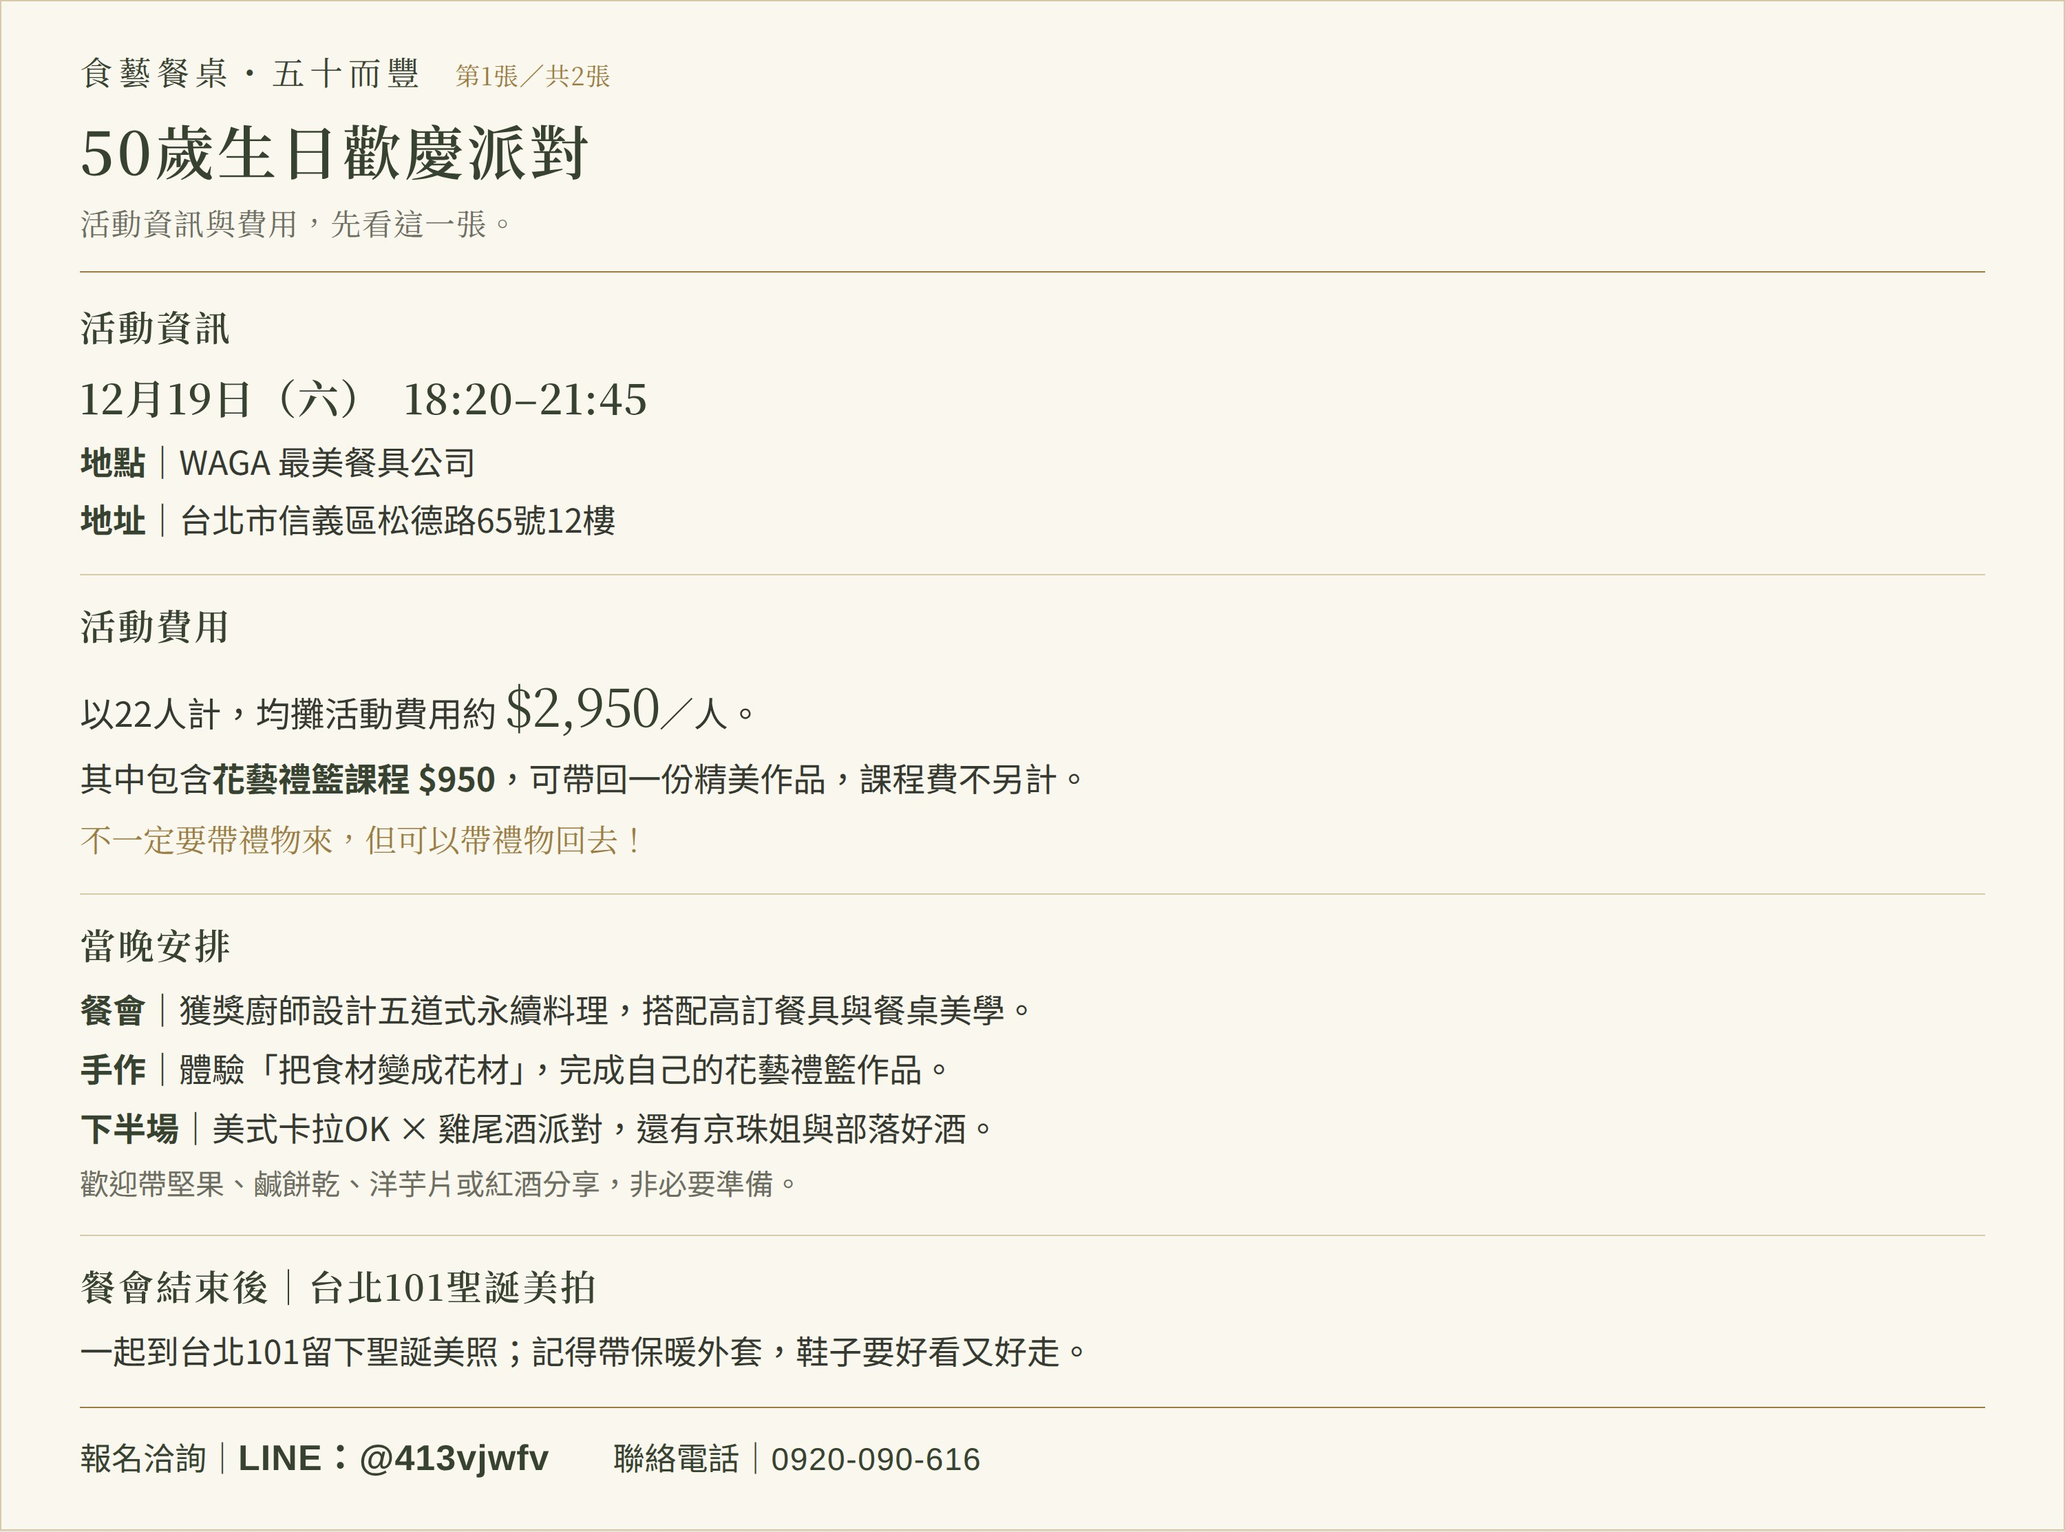
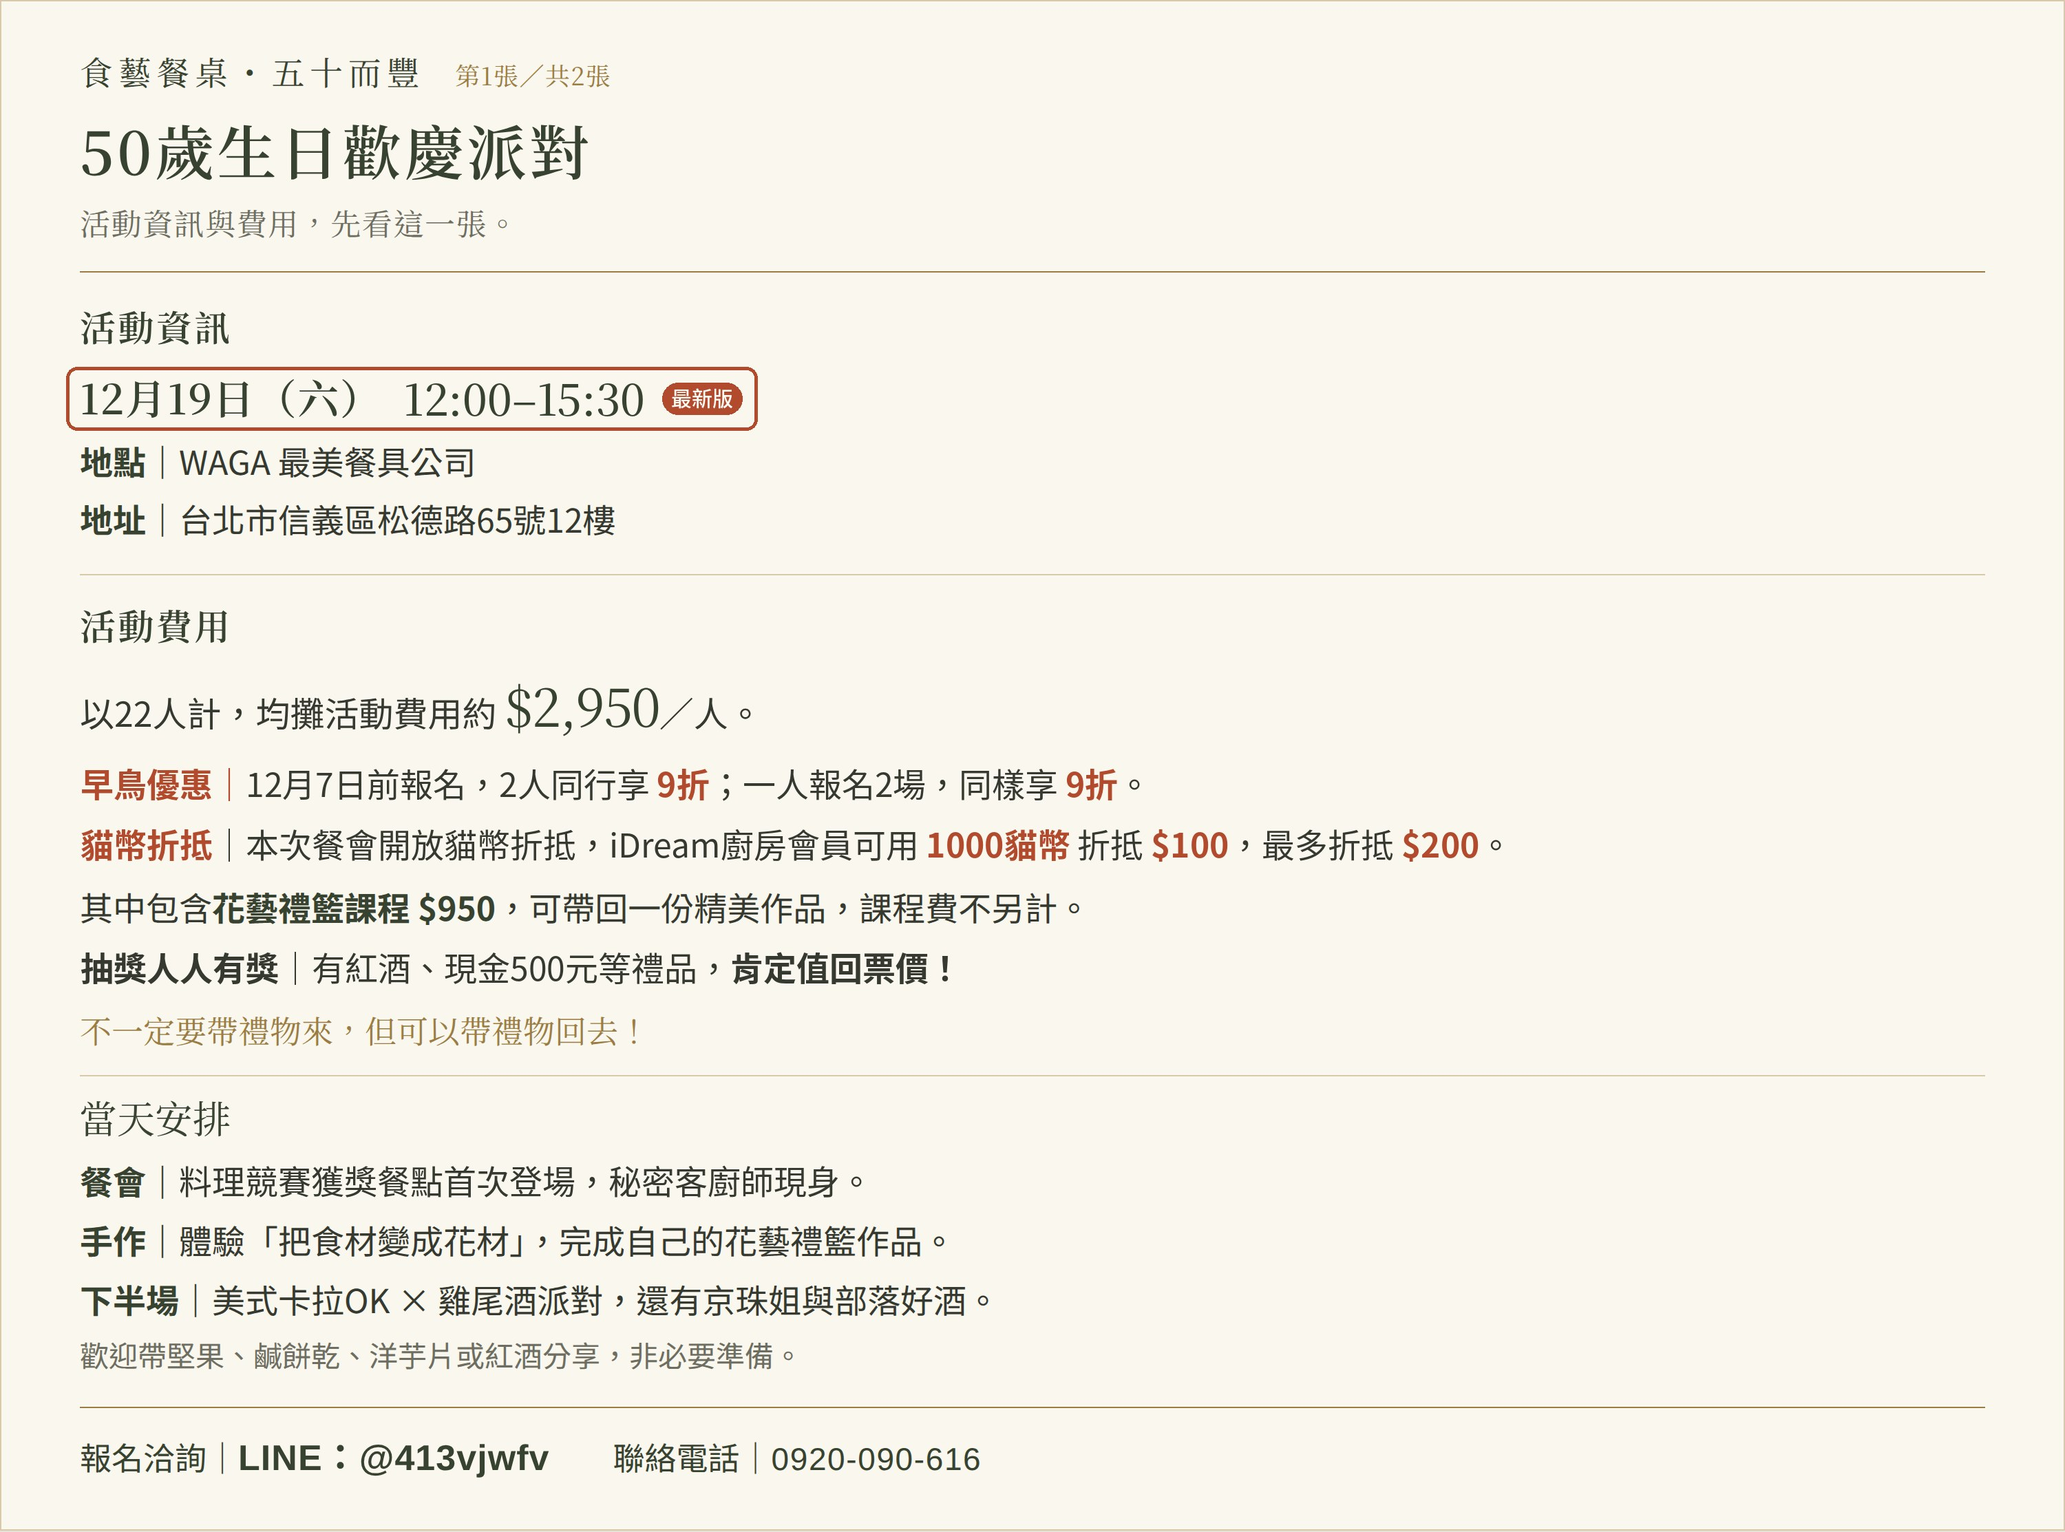
五十而豐 12/19 改 12:00–15:30、早鳥 9 折（含分兩次報名兩場）、貓幣折抵在確認金額時選擇、更新 12/19 海報與說明卡
Claude-Session: https://claude.ai/code/session_013Xvi1S55q1anRxZSCL8DCN

Changed region(s): [[0.031, 0.496, 0.713, 0.8989], [0.186, 0.248, 0.372, 0.279]]

diff --git a/index.html b/index.html
@@ -632,6 +632,11 @@
   .agree-line{display:flex;gap:8px;align-items:flex-start;font-size:13.5px;margin-bottom:6px;}
   .fifty-total{margin-top:16px;background:#fff;border:1px solid var(--gold);border-radius:6px;padding:12px;font-size:14px;line-height:1.8;text-align:center;}
   .fifty-total b{color:var(--wine-deep);font-size:18px;}
+  .fifty-accent{color:#B24A2E;}
+  .fifty-new-tag{display:inline-block;font-size:12px;font-weight:700;color:#fff;background:#B24A2E;border-radius:999px;padding:1px 9px;vertical-align:middle;margin-left:6px;}
+  .fifty-coin-row{display:flex;gap:8px;align-items:center;}
+  .fifty-coin-row select{flex:1;}
+  .fifty-coin-msg{font-size:13px;margin-top:6px;color:var(--ink-soft);}
   /* ===== 五十而豐 滿意度調查 ===== */
   .survey-card{position:relative;display:block;width:calc(100% - 44px);margin:14px 22px 0;padding:0;border:none;border-radius:8px;overflow:hidden;cursor:pointer;aspect-ratio:2.2/1;box-shadow:0 8px 20px -10px rgba(0,0,0,0.45);background:var(--paper-deep);}
   .survey-card img{width:100%;height:100%;object-fit:cover;display:block;}
@@ -1260,7 +1265,7 @@
             <label class="session-opt"><input type="checkbox" name="fifty-session" value="1207" onchange="updateFiftyTotal()">
               <span><b>12/7（一）18:00–20:45</b><br>人生回顧暨感恩餐會｜約 $2,350／人</span></label>
             <label class="session-opt"><input type="checkbox" name="fifty-session" value="1219" onchange="updateFiftyTotal()">
-              <span><b>12/19（六）18:20–21:45</b><br>50 歲生日歡慶派對｜約 $2,950／人</span></label>
+              <span><b>12/19（六）12:00–15:30</b><br>50 歲生日歡慶派對｜約 $2,950／人</span></label>
           </div>
         </div>
 
@@ -1277,7 +1282,7 @@
 
         <div class="signup-section-title" style="margin-top:20px;">主報名者資料</div>
         <div class="field"><label for="fifty-name">姓名 *</label><input type="text" id="fifty-name"></div>
-        <div class="field"><label for="fifty-phone">手機 *</label><input type="tel" id="fifty-phone" placeholder="09xxxxxxxx"></div>
+        <div class="field"><label for="fifty-phone">手機 *</label><input type="tel" id="fifty-phone" placeholder="09xxxxxxxx" ></div>
         <div class="field"><label for="fifty-email">Email *</label><input type="email" id="fifty-email" placeholder="報名確認信會寄到這裡"></div>
         <div class="field"><label for="fifty-idno">身分證字號 *（投保平安險用）</label><input type="text" id="fifty-idno" maxlength="10" placeholder="A123456789" style="text-transform:uppercase;"></div>
         <div class="field"><label for="fifty-birth">出生年月日 *（投保平安險用）</label><input type="date" id="fifty-birth" min="1920-01-01" max="2026-12-31"></div>
@@ -1332,6 +1337,7 @@
           本單位（好放心飲食行銷有限公司）依個人資料保護法蒐集、處理及利用您所提供之個人資料（姓名、手機、Email、身分證字號、出生年月日），僅用於「食藝餐桌・五十而豐」活動之聯繫、報名確認、以本公司名義為所有來賓投保平安險，以及會員貓幣累積，不會提供給第三方或用於其他用途。
         </div>
         <label class="agree-line"><input type="checkbox" id="fifty-privacy"> 我已閱讀並同意上述個人資料保護聲明 *</label>
+
 
         <div class="fifty-total" id="fifty-total-box">請先勾選報名場次</div>
 
@@ -1400,26 +1406,25 @@
           <div class="info-sub">五十而豐，讓美好繼續發生。</div>
           <div class="info-sec">
             <div class="info-h">活動資訊</div>
-            <div class="info-big">12月19日（六）18:20–21:45</div>
+            <div class="info-big">12月19日（六）12:00–15:30 <span class="fifty-new-tag">最新版</span></div>
             <p><b>地點</b>｜WAGA 最美餐具公司<br><b>地址</b>｜台北市信義區松德路65號12樓</p>
           </div>
           <div class="info-sec">
             <div class="info-h">活動費用</div>
             <p>以 22 人計，均攤活動費用約 <span class="info-price">$2,950／人</span></p>
+            <p><b class="fifty-accent">早鳥優惠</b>｜12月7日前報名，2人同行享 <b class="fifty-accent">9折</b>；一人報名2場（分兩次報名也算），同樣享 <b class="fifty-accent">9折</b>。<span class="info-muted">若之後取消其中一場，或同行者有人退費，就不再享 9 折。</span></p>
+            <p><b class="fifty-accent">貓幣折抵</b>｜本次餐會開放貓幣折抵，iDream廚房會員可用 <b class="fifty-accent">1000貓幣</b> 折抵 <b class="fifty-accent">$100</b>，每筆報名最多折抵 <b class="fifty-accent">$200</b>，可與早鳥優惠併用（使用之前累積的貓幣，確認金額時可選擇折抵 $100、$200 或不折抵）。</p>
             <p>🐾 完成匯款後，每人可得 <b>500 點貓幣</b>（活動後填滿意度調查再送 100 點）</p>
             <p>其中包含<b>花藝禮籃課程 $950</b>，可帶回一份精美作品，課程費不另計。</p>
+            <p><b>抽獎人人有獎</b>｜有紅酒、現金500元等禮品，<b>肯定值回票價！</b></p>
             <p class="info-gold">不一定要帶禮物來，但可以帶禮物回去！</p>
           </div>
           <div class="info-sec">
-            <div class="info-h">當晚安排</div>
-            <p><b>餐會</b>｜獲獎廚師設計五道式永續料理，搭配高訂餐具與餐桌美學。</p>
+            <div class="info-h">當天安排</div>
+            <p><b>餐會</b>｜料理競賽獲獎餐點首次登場，秘密客廚師現身。</p>
             <p><b>手作</b>｜體驗「把食材變成花材」，完成自己的花藝禮籃作品。</p>
             <p><b>下半場</b>｜美式卡拉OK × 雞尾酒派對，還有京珠姐與部落好酒。</p>
             <p class="info-muted">歡迎帶堅果、鹹餅乾、洋芋片或紅酒分享，非必要準備。</p>
-          </div>
-          <div class="info-sec">
-            <div class="info-h">餐會結束後｜台北101聖誕美拍</div>
-            <p>一起到台北101留下聖誕美照；記得帶保暖外套，鞋子要好看又好走。</p>
           </div>
         </div>
         <div class="info-card">
@@ -1458,6 +1463,9 @@
     <div class="checkout-card">
       <div class="checkout-title">確認報名金額與付款資訊</div>
       <div class="event-summary-box" id="fifty-summary"></div>
+      <div class="event-summary-box" id="fifty-coin-box" style="display:none;"></div>
+      <div class="event-summary-box" id="fifty-pay-box"></div>
+      <div class="policy-box" id="fifty-early-note" style="display:none;"></div>
       <div class="bank-box">
         <b>【銀行匯款帳戶】</b><br>
         銀行名稱：008 華南銀行 永和分行<br>
@@ -1899,7 +1907,7 @@
   const FIFTY_EVENT_ID = 'fifty50';
   const FIFTY_SESSIONS = {
     '1207': { label: '12/7（一）18:00–20:45 人生回顧暨感恩餐會', price: 2350 },
-    '1219': { label: '12/19（六）18:20–21:45 50歲生日歡慶派對', price: 2950 },
+    '1219': { label: '12/19（六）12:00–15:30 50歲生日歡慶派對', price: 2950 },
   };
   const FIFTY_POINTS_PER_SESSION = 500;
 
@@ -1977,21 +1985,69 @@
     return Array.from(document.querySelectorAll('input[name="fifty-session"]:checked')).map(function (b) { return b.value; });
   }
 
+  // 早鳥：12/7 00:00（台北時間）前報名，且「2 人以上同行」或「一人報 2 場（含分兩次報名）」→ 9 折
+  // 貓幣：用之前累積的貓幣，1000 點折 $100，每筆最多 $200，可併用；按「前往確認金額」時由後台試算
+  const FIFTY_EARLY_DEADLINE = new Date('2026-12-07T00:00:00+08:00').getTime();
+  let fiftyQuote = null;   // 後台試算結果
+  let fiftyCoinChoice = 0; // 0／1000／2000
   function calcFifty() {
     const sessions = getFiftySessions();
     const count = Number(document.getElementById('fifty-count').value);
     const perPerson = sessions.reduce(function (s, k) { return s + FIFTY_SESSIONS[k].price; }, 0);
-    return { sessions: sessions, count: count, total: perPerson * count, points: FIFTY_POINTS_PER_SESSION * sessions.length };
+    const subtotal = perPerson * count;
+    const localEarly = sessions.length > 0 && Date.now() < FIFTY_EARLY_DEADLINE && (count >= 2 || sessions.length >= 2);
+    const q = fiftyQuote;
+    const early = q ? q.early : localEarly;
+    const earlyDiscount = q ? q.earlyDiscount : (localEarly ? subtotal - Math.round(subtotal * 0.9) : 0);
+    const coinsUsed = q ? fiftyCoinChoice : 0;
+    const coinDiscount = coinsUsed / 10;
+    return { sessions: sessions, count: count, subtotal: subtotal, early: early, earlyReason: q ? q.earlyReason : '',
+      earlyDiscount: earlyDiscount, coinsUsed: coinsUsed, coinDiscount: coinDiscount,
+      total: Math.max(0, subtotal - earlyDiscount - coinDiscount), points: FIFTY_POINTS_PER_SESSION * sessions.length };
+  }
+  function fiftyPriceLines(c) {
+    let h = '原價 $' + c.subtotal.toLocaleString();
+    if (c.early) h += '<br>早鳥 9 折' + (c.earlyReason ? '（' + c.earlyReason + '）' : '') + '　－$' + c.earlyDiscount.toLocaleString();
+    if (c.coinDiscount) h += '<br>貓幣折抵（' + c.coinsUsed + ' 點）　－$' + c.coinDiscount.toLocaleString();
+    return h;
   }
 
   function updateFiftyTotal() {
+    fiftyQuote = null;
     const c = calcFifty();
     const box = document.getElementById('fifty-total-box');
     if (!c.sessions.length) { box.innerHTML = '請先勾選報名場次'; return; }
-    box.innerHTML = c.sessions.length + ' 場 × ' + c.count + ' 位，費用約 <b>$' + c.total.toLocaleString() + '</b><br>' +
+    const hint = (!c.early && Date.now() < FIFTY_EARLY_DEADLINE) ? '<br><span style="font-size:13px;color:#B24A2E;">2 人同行或一人報 2 場（分兩次報名也算），12/7 前報名享 9 折</span>' : '';
+    box.innerHTML = c.sessions.length + ' 場 × ' + c.count + ' 位<br>' + fiftyPriceLines(c) +
+      '<br>預估金額 <b>$' + c.total.toLocaleString() + '</b>' + hint +
+      '<br><span style="font-size:13px;">貓幣折抵可在下一步「確認金額」時選擇</span><br>' +
       '每位參加者可得貓幣 ' + c.points + ' 點（匯款確認後發放）';
   }
 
+  function renderFiftyPay() {
+    const c = calcFifty();
+    document.getElementById('fifty-pay-box').innerHTML = fiftyPriceLines(c) +
+      '<div style="margin-top:6px;"><b>應付金額：</b><span class="price-highlight">$' + c.total.toLocaleString() + '</span></div>';
+    const note = document.getElementById('fifty-early-note');
+    if (c.early) {
+      note.style.display = 'block';
+      note.innerHTML = '<b>【早鳥 9 折提醒】</b><br>本次 9 折的條件是「' + c.earlyReason + '」。如果之後<b>取消其中一場</b>，或<b>同行者中有人退費</b>，就不再符合 9 折，折扣會在退費時扣回（或需補足差額）。';
+    } else note.style.display = 'none';
+  }
+  function pickFiftyCoin(v) { fiftyCoinChoice = v; renderFiftyPay(); }
+  function renderFiftyCoinBox() {
+    const box = document.getElementById('fifty-coin-box');
+    const remain = fiftyQuote ? fiftyQuote.remainPoints : 0;
+    const opt = function (v, label) {
+      const dis = remain < v ? ' disabled' : '';
+      return '<label style="display:block;margin:4px 0;' + (dis ? 'color:#aaa;' : '') + '"><input type="radio" name="fifty-coin" style="width:auto;" value="' + v + '"' +
+        (fiftyCoinChoice === v ? ' checked' : '') + dis + ' onchange="pickFiftyCoin(' + v + ')"> ' + label + '</label>';
+    };
+    box.style.display = 'block';
+    box.innerHTML = '<div><b>要使用貓幣折抵嗎？</b>（你目前可用 <b>' + remain + '</b> 點，用的是之前累積的貓幣）</div>' +
+      opt(0, '不折抵') + opt(1000, '使用 1000 點，折抵 $100') + opt(2000, '使用 2000 點，折抵 $200') +
+      '<div style="font-size:13px;color:var(--ink-soft);">※ 本次報名會得到的貓幣要匯款確認後才發放，不能折抵本次；確認收到匯款後才會扣點。</div>';
+  }
   function validateFifty() {
     const c = calcFifty();
     if (!c.sessions.length) return '請勾選報名場次';
@@ -2018,16 +2074,35 @@
     return '';
   }
 
-  function openFiftyCheckout() {
+  async function openFiftyCheckout() {
     const err = validateFifty();
     if (err) { alert(err); return; }
+    const sessions = getFiftySessions();
+    fiftyCoinChoice = 0;
+    try {
+      const res = await fetch(FIFTY_WEBAPP_URL, { method: 'POST', body: JSON.stringify({
+        action: 'fiftyQuote', sessions: sessions,
+        name: document.getElementById('fifty-name').value.trim(),
+        phone: document.getElementById('fifty-phone').value.replace(/[-\s]/g, ''),
+        email: document.getElementById('fifty-email').value.trim(),
+        lineId: (typeof lineUserId !== 'undefined' ? lineUserId : '') || '',
+        companions: getFiftyCompanions().map(function (x) { return { name: x.name, phone: x.phone.replace(/[-\s]/g, '') }; }) }) });
+      const q = await res.json();
+      if (q.status !== 'success') throw new Error(q.message || 'quote');
+      fiftyQuote = q;
+    } catch (e) {
+      console.error(e);
+      alert('金額試算失敗，請稍後再試，或透過 LINE 官方帳號 @413vjwfv 聯繫小編。');
+      return;
+    }
     const c = calcFifty();
     document.getElementById('fifty-summary').innerHTML =
       '<div><b>報名場次：</b><br>' + c.sessions.map(function (k) { return '・' + FIFTY_SESSIONS[k].label; }).join('<br>') + '</div>' +
       '<div><b>報名人數：</b>' + c.count + ' 位</div>' +
       (document.getElementById('fifty-referrer').value.trim() ? '<div><b>推薦人：</b>' + document.getElementById('fifty-referrer').value.trim() + '</div>' : '') +
-      '<div><b>貓幣回饋：</b>每位 ' + c.points + ' 點</div>' +
-      '<div style="margin-top:6px;"><b>費用合計（約）：</b><span class="price-highlight">$' + c.total.toLocaleString() + '</span></div>';
+      '<div><b>貓幣回饋：</b>每位 ' + c.points + ' 點（匯款確認後發放）</div>';
+    renderFiftyCoinBox();
+    renderFiftyPay();
     document.getElementById('fifty-submit-btn').style.display = 'block';
     document.getElementById('fifty-submit-btn').disabled = false;
     document.getElementById('fifty-submit-btn').innerText = '確認送出報名';
@@ -2047,6 +2122,9 @@
       sessions: c.sessions,
       count: c.count,
       total: c.total,
+      subtotal: c.subtotal,
+      early: c.early,
+      coinsUsed: c.coinsUsed,
       pointsPerPerson: c.points,
       lineId: (typeof lineUserId !== 'undefined' ? lineUserId : '') || '',
       displayName: (typeof lineDisplayName !== 'undefined' ? lineDisplayName : '') || '',
